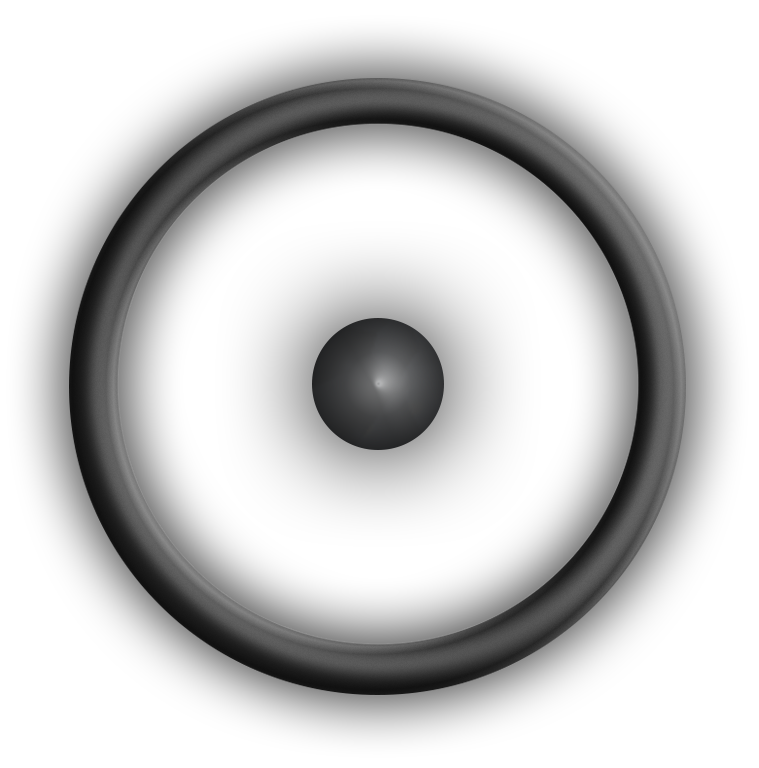
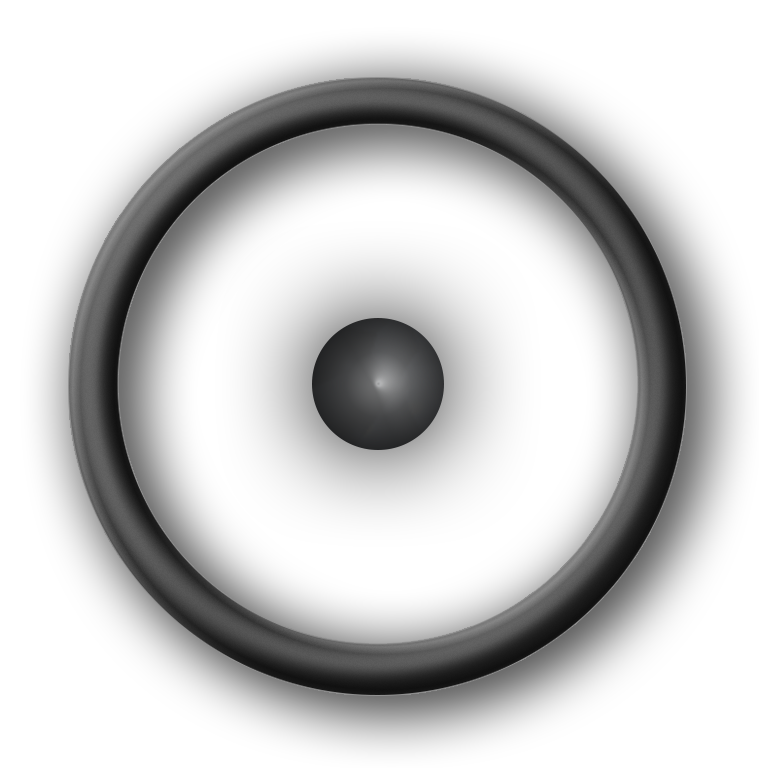
Updated speed and dropshadow

Changed region(s): [[0.0303, 0.0625, 0.9697, 0.9688]]

diff --git a/sandbox/jet/css/jet.css b/sandbox/jet/css/jet.css
@@ -6,6 +6,6 @@ blockquote,q{quotes:none}
 blockquote:before,blockquote:after,q:before,q:after{content:'';content:none}
 table{border-collapse:collapse;border-spacing:0}
 #wrapper{background:#050505;position:absolute;top:0;left:0;right:0;bottom:0}#wrapper #hullWrapper{background:url(../img/hull.png) center center no-repeat;width:759px;height:768px;position:fixed;left:50%;margin-left:-370px;top:50%;margin-top:-384px;z-index:5}
-#wrapper #turbine{background:url(../img/turbine.png) center center no-repeat;position:absolute;width:536px;height:536px;z-index:4;left:50%;top:50%;margin-left:-258px;margin-top:-270px;-webkit-animation-name:rotate;-webkit-animation-duration:20s;-webkit-animation-iteration-count:infinite;-webkit-animation-timing-function:linear}
+#wrapper #turbine{background:url(../img/turbine.png) center center no-repeat;position:absolute;width:536px;height:536px;z-index:4;left:50%;top:50%;margin-left:-258px;margin-top:-270px;-webkit-animation-name:rotate;-webkit-animation-duration:8s;-webkit-animation-iteration-count:infinite;-webkit-animation-timing-function:linear}
 #cloudOverlay{position:fixed;left:0;top:0;right:0;bottom:0;z-index:9;background:url(../img/clouds.png) center center no-repeat;background-size:cover}
 @-webkit-keyframes rotate{from{-webkit-transform:rotate(360deg)} to{-webkit-transform:rotate(0deg)}}

diff --git a/sandbox/jet/css/less/jet.less b/sandbox/jet/css/less/jet.less
@@ -37,7 +37,7 @@
 		margin-left: -258px;
 		margin-top: -270px;
 		-webkit-animation-name: rotate;
-		-webkit-animation-duration: 20s;
+		-webkit-animation-duration: 8s;
 		-webkit-animation-iteration-count: infinite;
 		-webkit-animation-timing-function: linear;
 		
